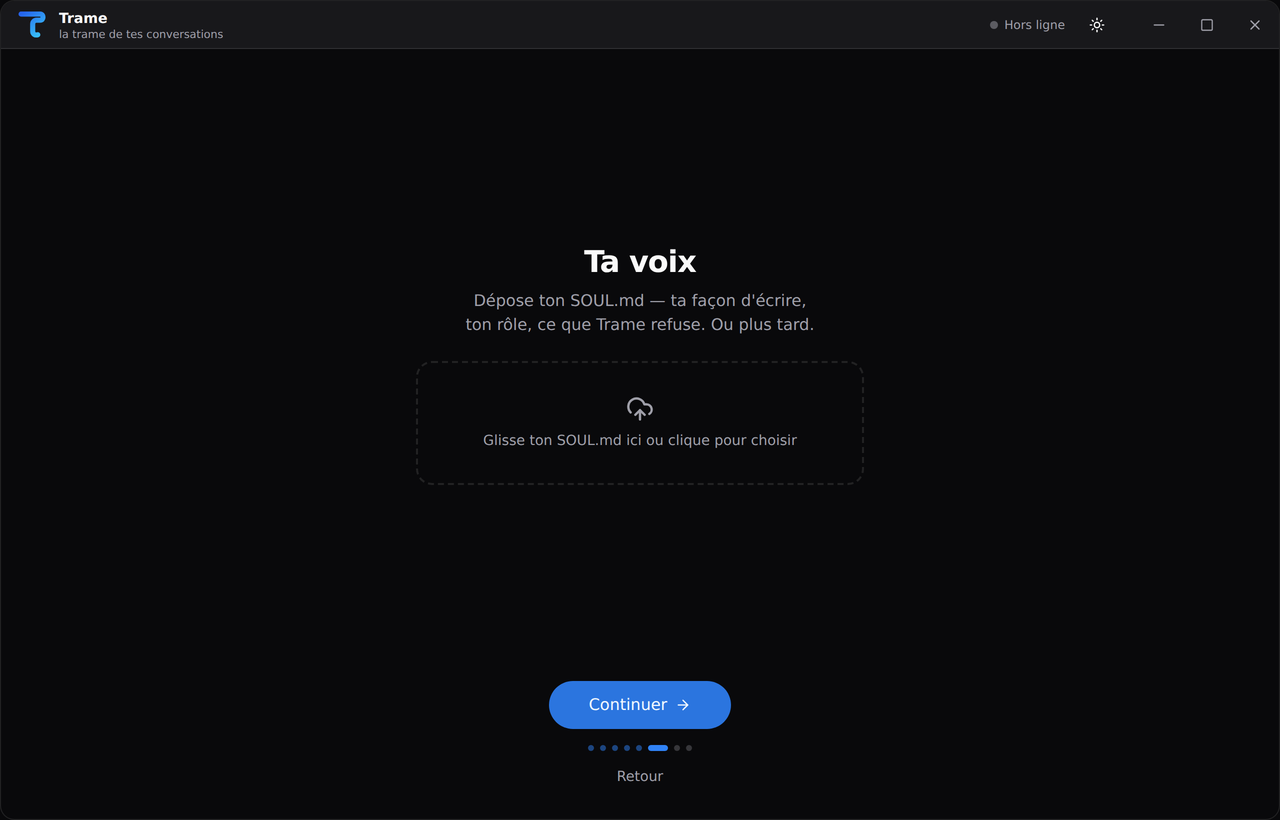
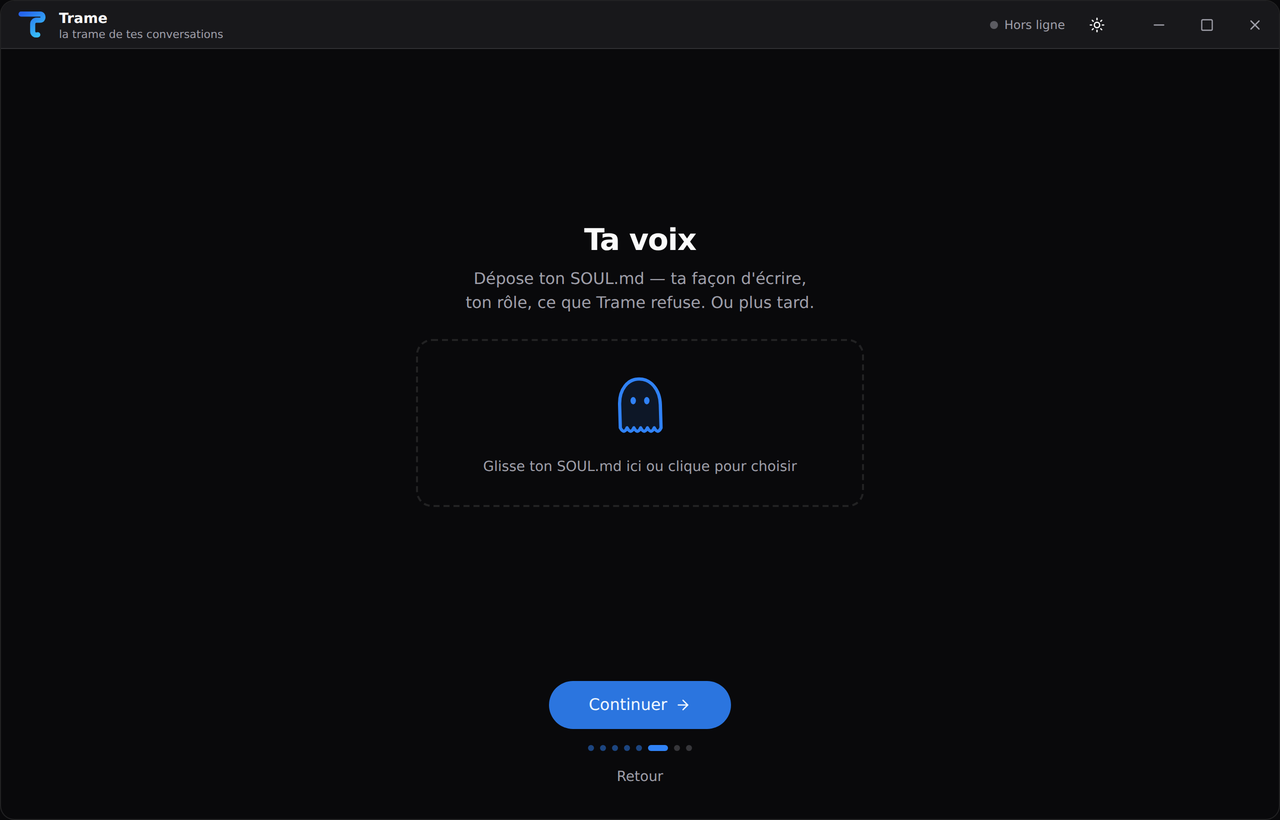
Dépôt du SOUL.md : l'âme de Trame, un fantôme qui porte l'état
- SoulGhost (SVG au trait, Motion) : flotte et cligne en attente, s'approche
  yeux grands ouverts quand un fichier survole, absorbe la page et sourit
  quand le fichier est accepté, secoue la tête en cas de refus puis se calme
- correction du clignotement de l'état « survol » quand le pointeur passe
  sur le contenu de la zone (dragleave des enfants ignoré)
- README : bande des quatre états

Changed region(s): [[0.3438, 0.2744, 0.625, 0.4268], [0.375, 0.4573, 0.625, 0.5793]]

diff --git a/ui/src/wizard/Wizard.tsx b/ui/src/wizard/Wizard.tsx
@@ -1,10 +1,11 @@
 import { useEffect, useRef, useState } from "react";
 import { AnimatePresence, motion, useAnimationControls } from "motion/react";
-import { ArrowRight, Check, FileText, GitBranch, Loader2, PenLine, RotateCcw, Timer, UploadCloud } from "lucide-react";
+import { ArrowRight, Check, FileText, GitBranch, Loader2, PenLine, RotateCcw, Timer } from "lucide-react";
 import { Button } from "@/components/ui/button";
 import { Switch } from "@/components/ui/switch";
 import { BrainPicker, BrainId } from "@/components/BrainPicker";
 import { ConversationList } from "@/components/ConversationList";
+import { SoulGhost } from "@/components/SoulGhost";
 import { GroupList, InitialsAvatar, Segment, SelectCircle, StatusDot, Status, pop, shake } from "@/components/kit";
 import { cn } from "@/lib/utils";
 import { SOUL_MAX_BYTES, Trame } from "@/api";
@@ -451,6 +452,7 @@ function SoulDrop({ value, onChange }: { value: Soul | null; onChange: (s: Soul)
     setError(msg);
     setState("error");
     controls.start(shake);
+    setTimeout(() => setState((cur) => (cur === "error" ? (value ? "ok" : "idle") : cur)), 2600);
   };
 
   const accept = async (f: File | undefined) => {
@@ -472,7 +474,10 @@ function SoulDrop({ value, onChange }: { value: Soul | null; onChange: (s: Soul)
           e.preventDefault();
           if (state !== "drag") setState("drag");
         }}
-        onDragLeave={() => setState(file ? "ok" : "idle")}
+        onDragLeave={(e) => {
+          if (e.currentTarget.contains(e.relatedTarget as Node | null)) return;
+          setState(file ? "ok" : "idle");
+        }}
         onDrop={(e) => {
           e.preventDefault();
           accept(e.dataTransfer.files[0]);
@@ -480,7 +485,7 @@ function SoulDrop({ value, onChange }: { value: Soul | null; onChange: (s: Soul)
         animate={{ scale: state === "drag" ? 1.02 : 1 }}
         transition={{ type: "spring", stiffness: 400, damping: 25 }}
         className={cn(
-          "flex w-full cursor-pointer flex-col items-center gap-2 rounded-2xl border-2 border-dashed p-8 transition-colors duration-200",
+          "flex w-full cursor-pointer flex-col items-center gap-3 rounded-2xl border-2 border-dashed p-7 transition-colors duration-200",
           state === "idle" && "text-muted-foreground hover:border-primary/60 hover:text-foreground",
           state === "drag" && "border-primary bg-primary/5 text-foreground",
           state === "ok" && "border-success/60 bg-success/5 text-foreground",
@@ -488,27 +493,29 @@ function SoulDrop({ value, onChange }: { value: Soul | null; onChange: (s: Soul)
         )}
       >
         <input ref={input} type="file" accept=".md,.txt" className="hidden" onChange={(e) => accept(e.target.files?.[0])} />
-        <AnimatePresence mode="popLayout" initial={false}>
-          {state === "ok" && file ? (
-            <motion.div key="ok" initial={{ scale: 0.8, opacity: 0 }} animate={{ scale: 1, opacity: 1 }} transition={pop} className="flex flex-col items-center gap-2">
-              <span className="grid size-10 place-items-center rounded-full bg-success text-white">
-                <Check className="size-5" strokeWidth={3} />
-              </span>
-              <span className="flex items-center gap-1.5 text-sm font-medium">
-                <FileText className="size-4" /> {file.name}
-              </span>
-              <span className="text-xs text-muted-foreground">{file.lines} lignes · clique pour remplacer</span>
-            </motion.div>
-          ) : (
-            <motion.div key="idle" initial={{ opacity: 0 }} animate={{ opacity: 1 }} className="flex flex-col items-center gap-2">
-              <motion.span animate={{ y: state === "drag" ? -4 : 0 }}>
-                <UploadCloud className={cn("size-7", state === "drag" && "text-primary")} />
-              </motion.span>
+        <SoulGhost state={state} />
+        <AnimatePresence mode="wait" initial={false}>
+          <motion.div
+            key={state === "ok" ? "ok" : state}
+            initial={{ opacity: 0, y: 4 }}
+            animate={{ opacity: 1, y: 0 }}
+            exit={{ opacity: 0, y: -4 }}
+            transition={{ duration: 0.18, delay: state === "ok" ? 0.4 : 0 }}
+            className="flex flex-col items-center gap-0.5 text-center"
+          >
+            {state === "ok" && file ? (
+              <>
+                <span className="flex items-center gap-1.5 text-sm font-medium">
+                  <FileText className="size-4" /> {file.name}
+                </span>
+                <span className="text-xs text-muted-foreground">Ta voix est prête · {file.lines} lignes · clique pour remplacer</span>
+              </>
+            ) : (
               <span className="text-sm">
-                {state === "drag" ? "Lâche pour déposer" : state === "error" ? error : "Glisse ton SOUL.md ici ou clique pour choisir"}
+                {state === "drag" ? "Lâche, je l'attrape" : state === "error" ? error : "Glisse ton SOUL.md ici ou clique pour choisir"}
               </span>
-            </motion.div>
-          )}
+            )}
+          </motion.div>
         </AnimatePresence>
       </motion.div>
     </motion.div>

diff --git a/ui/src/components/SoulGhost.tsx b/ui/src/components/SoulGhost.tsx
@@ -1,0 +1,114 @@
+import { AnimatePresence, motion } from "motion/react";
+import { cn } from "@/lib/utils";
+
+/* L'âme de Trame : un petit fantôme au trait qui porte l'état du dépôt du SOUL.md.
+   idle : il flotte et cligne des yeux · drag : il s'approche, yeux grands ouverts ·
+   ok : la page tombe en lui et il est content · error : il secoue la tête. */
+
+export type GhostState = "idle" | "drag" | "ok" | "error";
+
+const BODY =
+  "M9 27 C9 15.5 15.7 8 24 8 C32.3 8 39 15.5 39 27 V44 Q36.5 49 34 44 Q31.5 49 29 44 Q26.5 49 24 44 Q21.5 49 19 44 Q16.5 49 14 44 Q11.5 49 9 44 Z";
+
+const COLOR: Record<GhostState, string> = {
+  idle: "text-primary",
+  drag: "text-primary",
+  ok: "text-success",
+  error: "text-destructive",
+};
+
+const center = { transformBox: "fill-box", transformOrigin: "center" } as const;
+
+export function SoulGhost({ state, size = 76 }: { state: GhostState; size?: number }) {
+  const body = {
+    idle: { y: [0, -4, 0], rotate: 0, scale: 1, transition: { y: { duration: 3, repeat: Infinity, ease: "easeInOut" as const } } },
+    drag: { y: [-6, -10, -6], rotate: 0, scale: 1.12, transition: { y: { duration: 1.1, repeat: Infinity, ease: "easeInOut" as const }, scale: { type: "spring" as const, stiffness: 300, damping: 15 } } },
+    ok: { y: [0, -12, 0, -3, 0], rotate: 0, scale: 1, transition: { y: { duration: 0.9, delay: 0.45, ease: "easeOut" as const } } },
+    error: { y: 0, rotate: [0, -12, 10, -7, 4, 0], scale: 1, transition: { rotate: { duration: 0.6 } } },
+  }[state];
+
+  return (
+    <motion.svg
+      width={size}
+      height={size}
+      viewBox="0 0 48 56"
+      fill="none"
+      aria-hidden="true"
+      className={cn("overflow-visible transition-colors duration-300", COLOR[state])}
+      animate={body}
+      style={center}
+    >
+      <AnimatePresence>
+        {state === "ok" && (
+          <motion.g
+            key="page"
+            initial={{ y: -22, opacity: 1, scale: 1 }}
+            animate={{ y: 6, opacity: 0, scale: 0.3 }}
+            transition={{ duration: 0.5, ease: "easeIn" }}
+            style={center}
+          >
+            <rect x="19" y="14" width="10" height="13" rx="1.6" fill="var(--background)" stroke="currentColor" strokeWidth="1.6" />
+            <path d="M21.5 18.5h5M21.5 21.5h5M21.5 24.5h3" stroke="currentColor" strokeWidth="1.2" strokeLinecap="round" />
+          </motion.g>
+        )}
+      </AnimatePresence>
+
+      <motion.path
+        d={BODY}
+        fill="currentColor"
+        fillOpacity={0.12}
+        stroke="currentColor"
+        strokeWidth={2.4}
+        strokeLinejoin="round"
+        animate={{ skewX: state === "error" ? 0 : [0, 2.5, 0, -2.5, 0] }}
+        transition={{ duration: state === "drag" ? 1.2 : 3.2, repeat: Infinity, ease: "easeInOut" }}
+        style={{ transformBox: "fill-box", transformOrigin: "50% 0%" }}
+      />
+
+      <AnimatePresence mode="popLayout" initial={false}>
+        {(state === "idle" || state === "drag") && (
+          <motion.g key="open" initial={{ opacity: 0 }} animate={{ opacity: 1 }} exit={{ opacity: 0 }}>
+            {[19, 29].map((cx) => (
+              <motion.ellipse
+                key={cx}
+                cx={cx}
+                cy={24}
+                fill="currentColor"
+                animate={{
+                  rx: state === "drag" ? 2.7 : 2,
+                  ry: state === "drag" ? 3.4 : 2.7,
+                  scaleY: state === "idle" ? [1, 1, 0.12, 1] : 1,
+                }}
+                transition={{
+                  rx: { type: "spring", stiffness: 400, damping: 18 },
+                  ry: { type: "spring", stiffness: 400, damping: 18 },
+                  scaleY: { duration: 4, times: [0, 0.9, 0.95, 1], repeat: Infinity },
+                }}
+                style={center}
+              />
+            ))}
+            {state === "drag" && (
+              <motion.ellipse key="mouth" cx={24} cy={32} rx={2} ry={2.4} fill="currentColor" initial={{ scale: 0 }} animate={{ scale: 1 }} style={center} />
+            )}
+          </motion.g>
+        )}
+
+        {state === "ok" && (
+          <motion.g key="happy" initial={{ opacity: 0 }} animate={{ opacity: 1 }} exit={{ opacity: 0 }} transition={{ delay: 0.45 }}>
+            <path d="M16.5 25 q2.5 -3.4 5 0 M26.5 25 q2.5 -3.4 5 0" stroke="currentColor" strokeWidth="2" strokeLinecap="round" />
+            <path d="M20.5 30.5 q3.5 3.2 7 0" stroke="currentColor" strokeWidth="2" strokeLinecap="round" />
+            <circle cx="14.5" cy="29.5" r="1.8" fill="#f472b6" fillOpacity="0.55" />
+            <circle cx="33.5" cy="29.5" r="1.8" fill="#f472b6" fillOpacity="0.55" />
+          </motion.g>
+        )}
+
+        {state === "error" && (
+          <motion.g key="cross" initial={{ opacity: 0 }} animate={{ opacity: 1 }} exit={{ opacity: 0 }}>
+            <path d="M17 22 l4 4 M21 22 l-4 4 M27 22 l4 4 M31 22 l-4 4" stroke="currentColor" strokeWidth="2" strokeLinecap="round" />
+            <path d="M20.5 33 q3.5 -2.6 7 0" stroke="currentColor" strokeWidth="2" strokeLinecap="round" />
+          </motion.g>
+        )}
+      </AnimatePresence>
+    </motion.svg>
+  );
+}

diff --git a/README.md b/README.md
@@ -39,6 +39,11 @@ Trame tourne en tâche de fond, dans la barre des tâches. Quand quelqu'un que t
 | <img src="docs/screenshots/wizard-modes.png" alt="Brouillon ou auto" /> | <img src="docs/screenshots/wizard-persona.png" alt="Ta voix" /> |
 | **Brouillon ou auto** — par conversation | **Ta voix** — dépose ton `SOUL.md` |
 
+<p align="center">
+  <img src="docs/screenshots/ame-etats.png" width="760" alt="L'âme de Trame : attente, fichier au-dessus, accepté, refusé" /><br/>
+  <sub>L'âme de Trame réagit au dépôt du <code>SOUL.md</code> : elle attend, s'approche quand un fichier arrive, l'absorbe avec plaisir — ou secoue la tête si ce n'est pas le bon format.</sub>
+</p>
+
 ### Au quotidien
 
 | | |
